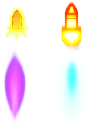
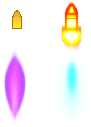
made enemy bullet prettier

Changed region(s): [[0.044, 0.0472, 0.3297, 0.3307]]

diff --git a/Classes/Bullets.cpp b/Classes/Bullets.cpp
@@ -26,13 +26,14 @@ bool Bullet::init()
         _owner = kEnemy;
         _damage = 10;
         ParticleSystemQuad *p = ParticleSystemQuad::create("missileFlare.plist");
-        p->setEndColor(Color4F(1,0,0,1));
+        //p->setEndColor(Color4F(1,0,0,1));
         //p->setStartColor(Color4F(1,0,0,1));
         p->setPositionType(tPositionType::GROUPED);
         p->setScale(2.5);
-        _Model->addChild(p);
+        p->setTotalParticles(2);
+        _Model->addChild(p,-1);
         p->setPosition(Point(_Model->getContentSize()/2));
-        
+        setScale(1.5);
         //static_cast<Sprite*>(_Model)->setFlippedY(true);
         return true;
     }

diff --git a/Classes/GameControllers.cpp b/Classes/GameControllers.cpp
@@ -108,7 +108,6 @@ void BulletController::erase(int i)
     }
     else
     {
-
         bullets.erase(i);
         b->removeFromParentAndCleanup(true);
     }
